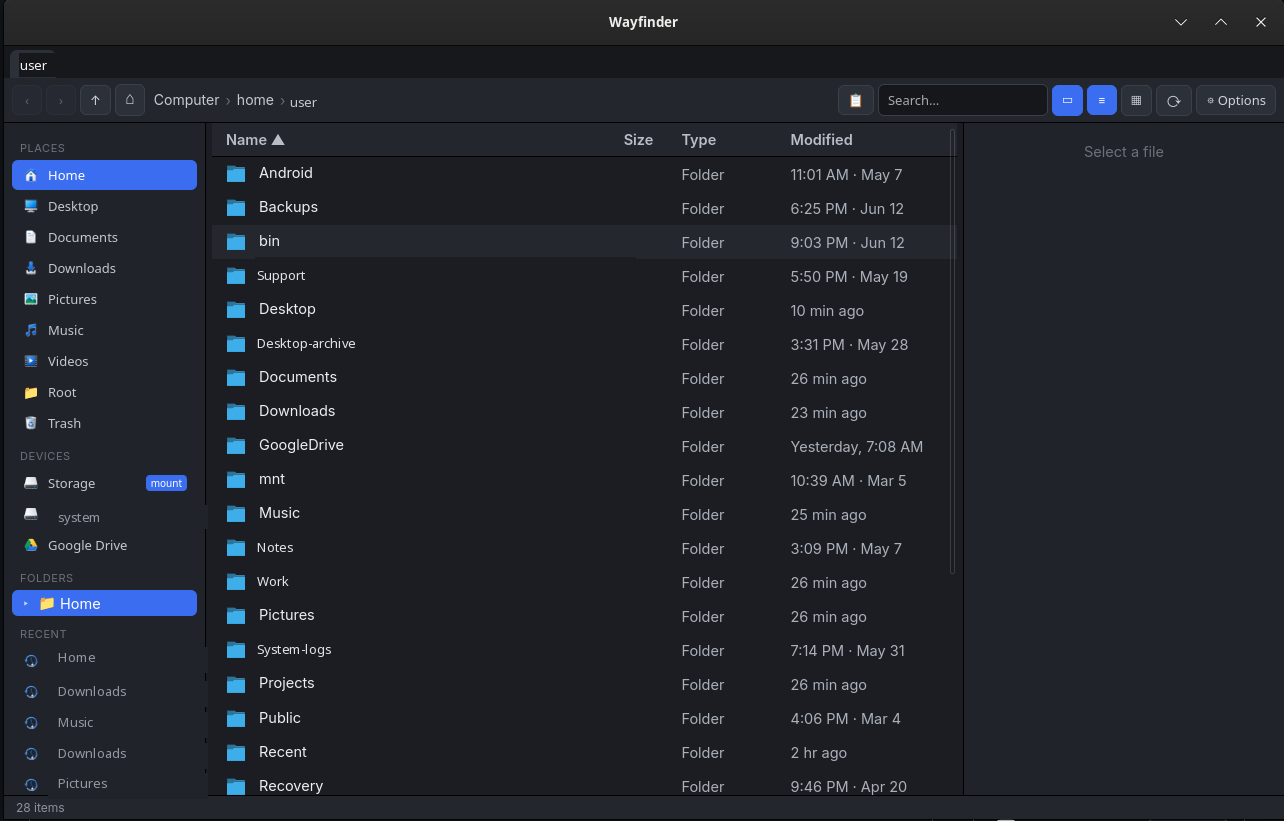
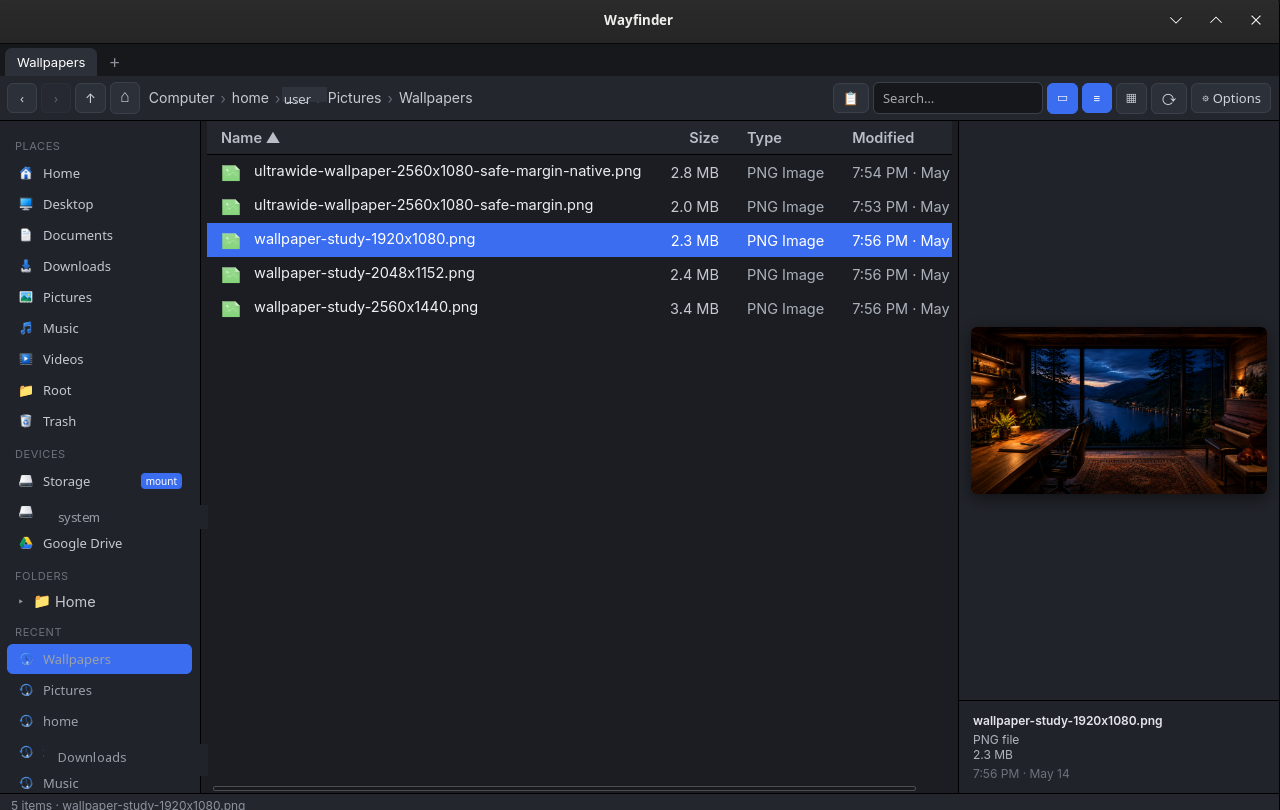
Add inline music player + update wallpaper screenshot
Music player: clicking any audio file (mp3, flac, wav, ogg, m4a, aac,
opus, wma, aiff, alac) shows a player in the preview pane with play/
pause button, seek bar, and elapsed/total time. Audio MIME types added
to read_data_url; file size limit raised to 100 MB for large FLAC/WAV.

Screenshot updated to the real Wallpapers folder view with personal
identifiers (username, drive label, app-specific folder) redacted.

diff --git a/src/routes/+page.svelte b/src/routes/+page.svelte
@@ -38,6 +38,9 @@
   let iconZoom = $state(1);
   let previewZoom = $state(1);
   const clamp = (v,a,b) => Math.max(a, Math.min(b, v));
+  const AUDIO_EXTS = new Set(['mp3','flac','wav','ogg','m4a','aac','opus','wma','aiff','alac']);
+  function fmtTime(s) { if (!s || isNaN(s)) return '0:00'; return `${Math.floor(s/60)}:${String(Math.floor(s%60)).padStart(2,'0')}`; }
+  function toggleAudio() { if (audioEl) audioPlaying ? audioEl.pause() : audioEl.play(); }
   function wheelFiles(ev){
     if (!ev.ctrlKey) return;
     ev.preventDefault();
@@ -77,6 +80,12 @@
   let colDate = $state(true);
   let thumbsEnabled = $state(true);
   let thumbCache = $state({});
+  let audioSrc = $state("");
+  let audioPlaying = $state(false);
+  let audioTime = $state(0);
+  let audioDuration = $state(0);
+  /** @type {HTMLAudioElement|null} */
+  let audioEl = $state(null);
 
   const basename = (p) => p === "/" ? "/" : (p.replace(/\/+$/,"").split("/").pop() || p);
   const PLACE_ICONS = { Home:'home', Desktop:'desktop', Documents:'documents', Downloads:'downloads', Pictures:'pictures', Music:'music', Videos:'video', Trash:'trash' };
@@ -414,9 +423,13 @@
       selectedSet = new Set([e.path]);
     }
     lastIndex = idx; selected = e;
-    previewSrc = ""; previewError = ""; previewText = ""; previewZoom = 1;
+    previewSrc = ""; previewError = ""; previewText = ""; audioSrc = ""; audioPlaying = false; audioTime = 0; audioDuration = 0; previewZoom = 1;
+    const ext = e.name.split('.').pop()?.toLowerCase() ?? '';
     if (e.is_image) {
       try { previewSrc = await invoke("read_data_url", { path: e.path }); }
+      catch (err) { previewError = String(err); }
+    } else if (AUDIO_EXTS.has(ext)) {
+      try { audioSrc = await invoke("read_data_url", { path: e.path }); }
       catch (err) { previewError = String(err); }
     } else if (!e.is_dir) {
       // try a text preview; binary/unreadable falls back to the file icon
@@ -709,6 +722,28 @@
       {#if selected}
         {#if previewText}
           <pre class="pv-text">{previewText}</pre>
+        {:else if audioSrc}
+          <div class="pv-audio">
+            <div class="pv-music-art">🎵</div>
+            <div class="pv-audio-title">{selected.name.replace(/\.[^.]+$/, '')}</div>
+            <div class="pv-audio-ext">{selected.name.split('.').pop()?.toUpperCase()}</div>
+            <audio bind:this={audioEl}
+                   src={audioSrc}
+                   onplay={() => audioPlaying = true}
+                   onpause={() => audioPlaying = false}
+                   ontimeupdate={() => { audioTime = audioEl?.currentTime ?? 0; }}
+                   onloadedmetadata={() => { audioDuration = audioEl?.duration ?? 0; }}></audio>
+            <div class="pv-audio-controls">
+              <button class="pv-play" onclick={toggleAudio}>{audioPlaying ? '⏸' : '▶'}</button>
+              <div class="pv-seek-row">
+                <span class="pv-time">{fmtTime(audioTime)}</span>
+                <input type="range" class="pv-seek" min=0 max={audioDuration || 1} step=0.1
+                       value={audioTime}
+                       oninput={(e) => { if (audioEl) audioEl.currentTime = +e.target.value; }} />
+                <span class="pv-time">{fmtTime(audioDuration)}</span>
+              </div>
+            </div>
+          </div>
         {:else}
           <div class="pv-image">
             {#if previewSrc}<img src={previewSrc} alt={selected.name} />
@@ -987,6 +1022,16 @@
             white-space:pre-wrap; word-break:break-word; }
   .pv-placeholder{ color:#6b7079; text-align:center; padding:20px; }
   .pv-placeholder.big{ font-size:80px; }
+  .pv-audio{ display:flex; flex-direction:column; align-items:center; justify-content:center; flex:1; gap:14px; padding:20px; }
+  .pv-music-art{ font-size:72px; line-height:1; user-select:none; }
+  .pv-audio-title{ font-size:14px; font-weight:600; color:#e3e5ea; text-align:center; word-break:break-word; padding:0 8px; }
+  .pv-audio-ext{ font-size:11px; color:#6b7079; text-transform:uppercase; letter-spacing:.08em; }
+  .pv-audio-controls{ width:100%; display:flex; flex-direction:column; align-items:center; gap:10px; }
+  .pv-play{ width:50px; height:50px; border-radius:50%; background:#3b82f6; border:none; color:#fff; font-size:22px; cursor:pointer; display:flex; align-items:center; justify-content:center; transition:background .15s; }
+  .pv-play:hover{ background:#2563eb; }
+  .pv-seek-row{ display:flex; align-items:center; gap:8px; width:100%; }
+  .pv-seek{ flex:1; accent-color:#3b82f6; cursor:pointer; }
+  .pv-time{ font-size:11px; color:#8a8f99; min-width:34px; text-align:center; font-variant-numeric:tabular-nums; }
   .pv-meta{ padding:12px 14px; border-top:1px solid #000; font-size:12px; color:#aeb3bb; }
   .pv-name{ font-weight:600; color:#e3e5ea; word-break:break-all; margin-bottom:4px; }
   .pv-date{ color:#6b7079; margin-top:4px; }

diff --git a/src-tauri/src/lib.rs b/src-tauri/src/lib.rs
@@ -161,7 +161,7 @@ fn b64(bytes: &[u8]) -> String {
 #[tauri::command]
 fn read_data_url(path: String) -> Result<String, String> {
     let md = fs::metadata(&path).map_err(|e| e.to_string())?;
-    if md.len() > 60 * 1024 * 1024 {
+    if md.len() > 100 * 1024 * 1024 {
         return Err("too large to preview".into());
     }
     let bytes = fs::read(&path).map_err(|e| e.to_string())?;
@@ -180,6 +180,16 @@ fn read_data_url(path: String) -> Result<String, String> {
         "ico" => "image/x-icon",
         "tif" | "tiff" => "image/tiff",
         "avif" => "image/avif",
+        "mp3" => "audio/mpeg",
+        "wav" => "audio/wav",
+        "flac" => "audio/flac",
+        "ogg" => "audio/ogg",
+        "m4a" => "audio/mp4",
+        "aac" => "audio/aac",
+        "opus" => "audio/ogg",
+        "wma" => "audio/x-ms-wma",
+        "aiff" | "aif" => "audio/aiff",
+        "alac" => "audio/mp4",
         _ => "application/octet-stream",
     };
     Ok(format!("data:{};base64,{}", mime, b64(&bytes)))